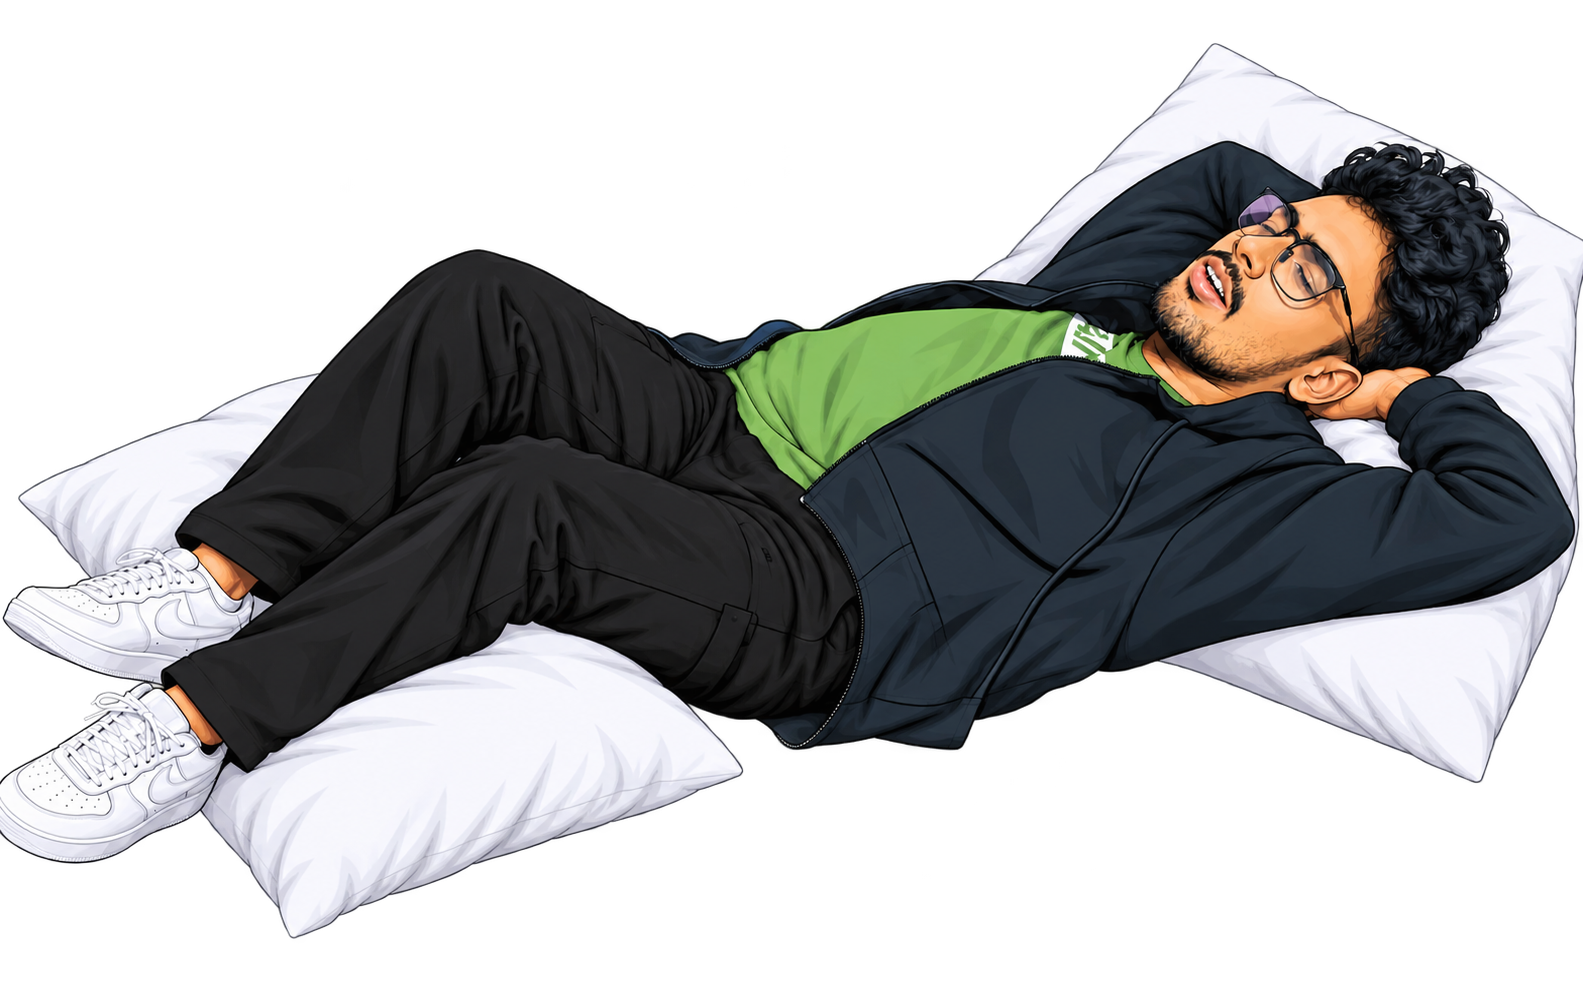
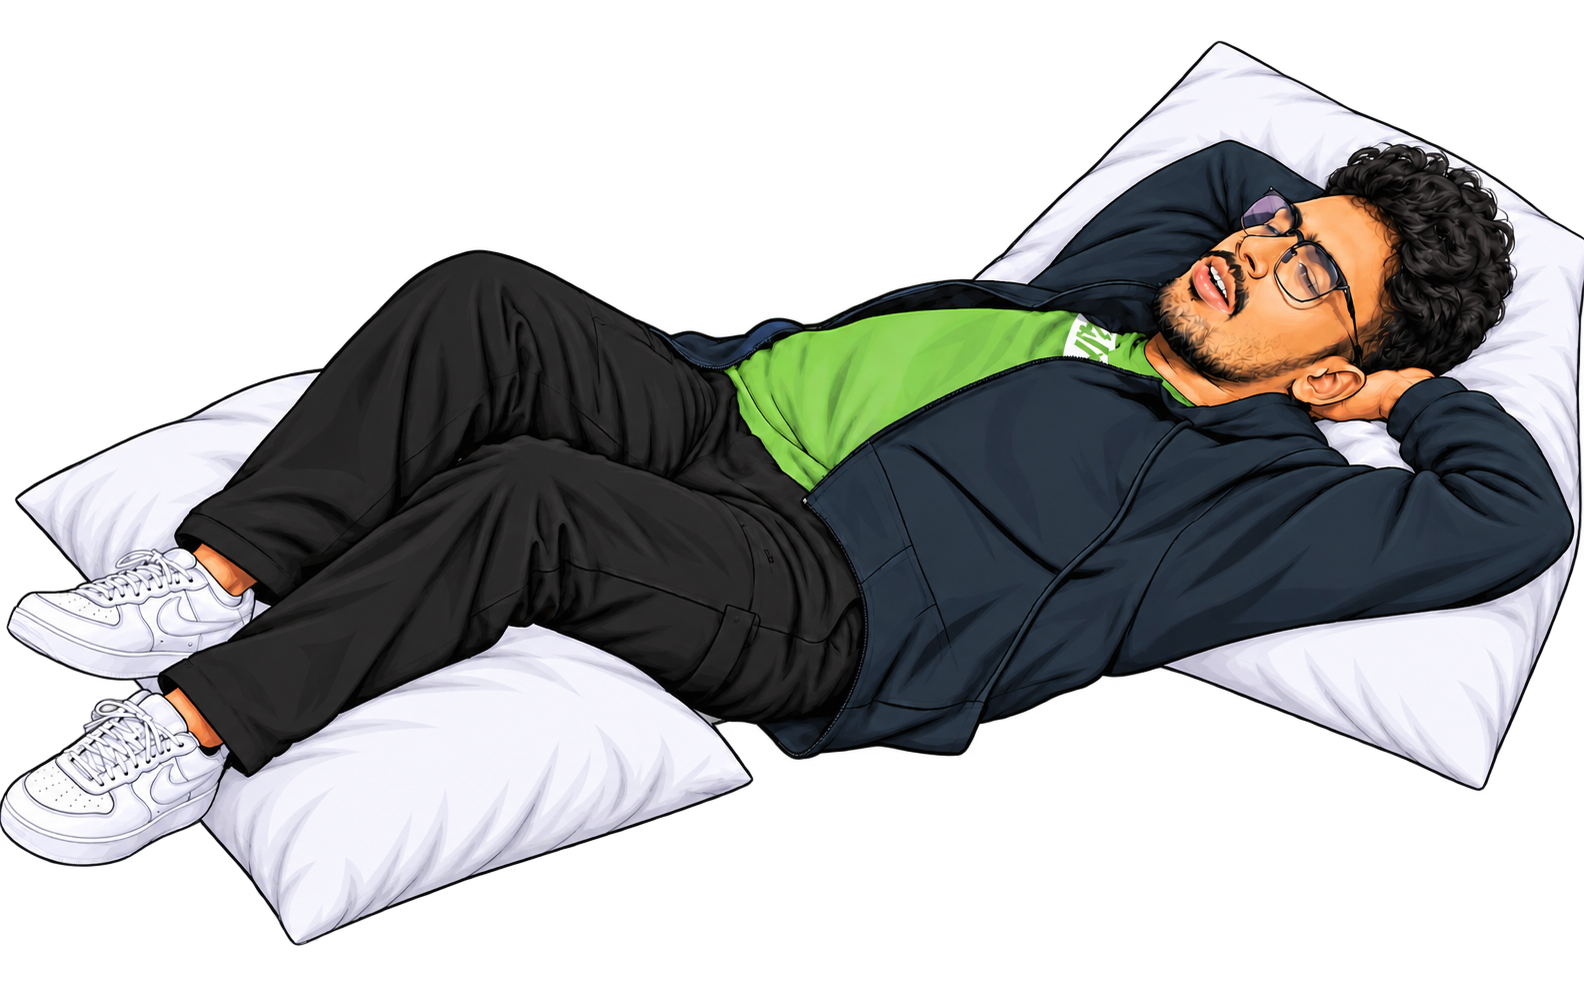
added the loading

diff --git a/index.html b/index.html
@@ -12,6 +12,18 @@
     <link href="https://fonts.googleapis.com/css2?family=Caveat:wght@400;600&display=swap" rel="stylesheet">
     <link href="https://fonts.googleapis.com/css2?family=Poppins:wght@400;500;600&display=swap" rel="stylesheet">
     <link href="https://fonts.googleapis.com/css2?family=Anton&display=swap" rel="stylesheet">
+    <link rel="preload" as="image" href="loading.gif">
+
+    <noscript>
+        <style>
+            #preloader {
+                display: none !important;
+            }
+            body.loading {
+                overflow: auto !important;
+            }
+        </style>
+    </noscript>
 
     <style>
         * {
@@ -659,8 +671,8 @@ html, body {
         }
 
         .social-gmail-btn img {
-            width: 30%;
-            max-width: 30%;
+            width: 10%;
+            max-width: 10%;
             height: auto;
             display: block;
             filter: grayscale(75%) drop-shadow(0 4px 10px rgba(0, 0, 0, 0.5));
@@ -1004,7 +1016,7 @@ html, body {
             }
         }
 
-        /* =========================================================
+        /* ======================THOMAS===================================
            FOOTER
            ========================================================= */
 
@@ -1115,10 +1127,72 @@ html, body {
                 gap: 10px;
             }
         }
+
+        /* Loading Screen (Preloader) */
+        body.loading {
+            overflow: hidden !important;
+        }
+
+        #preloader {
+            position: fixed;
+            top: 0;
+            left: 0;
+            width: 100vw;
+            height: 100vh;
+            background-color: #ffffff;
+            display: flex;
+            justify-content: center;
+            align-items: center;
+            z-index: 999999;
+            opacity: 1;
+            visibility: visible;
+            transition: opacity 0.5s ease, visibility 0.5s ease;
+        }
+
+        #preloader.fade-out {
+            opacity: 0;
+            visibility: hidden;
+            pointer-events: none;
+        }
+
+        #preloader img {
+            width: 150px;
+            height: 150px;
+            object-fit: contain;
+            display: block;
+            user-select: none;
+            -webkit-user-drag: none;
+        }
+
+        @media (prefers-reduced-motion: reduce) {
+            #preloader {
+                transition: none;
+            }
+        }
     </style>
 </head>
 
-<body>
+<body class="loading">
+
+    <!-- Loading Screen (Preloader) -->
+    <div id="preloader" role="status" aria-label="Loading page">
+        <img id="preloader-gif" src="loading.gif" alt="Loading..." width="150" height="150" fetchpriority="high">
+    </div>
+    <script>
+        window.__preloaderStart = performance.now();
+        (function() {
+            const gif = document.getElementById('preloader-gif');
+            if (gif) {
+                if (gif.complete) {
+                    window.__gifStartTime = performance.now();
+                } else {
+                    gif.addEventListener('load', function() {
+                        window.__gifStartTime = performance.now();
+                    }, { once: true });
+                }
+            }
+        })();
+    </script>
 
     <!-- ======= HERO SECTION ======= -->
     <div class="hero-section" id="home">
@@ -1228,7 +1302,7 @@ html, body {
             <img src="Text.png" alt="" class="social-text-img">
             <a href="https://mail.google.com/mail/?view=cm&fs=1&to=donsavio1one@gmail.com&su=Portfolio%20Contact"
                 target="_blank" class="social-gmail-btn">
-                <img src="socialmedia/gmail.png" alt="Gmail">
+                <img src="socialmedia/gmail.gif" alt="Gmail">
             </a>
         </div>
         <div class="social-inner">
@@ -1358,6 +1432,43 @@ html, body {
             }
 
             requestAnimationFrame(animate);
+        })();
+    </script>
+
+    <!-- Preloader Dismissal Script -->
+    <script>
+        (function () {
+            // Exact duration of one complete loop of loading.gif (109 frames = 3630ms)
+            const GIF_ROUND_DURATION = 3630;
+
+            function hidePreloader() {
+                const preloader = document.getElementById('preloader');
+                if (preloader && !preloader.classList.contains('fade-out')) {
+                    preloader.classList.add('fade-out');
+                    document.body.classList.remove('loading');
+                    setTimeout(() => {
+                        preloader.style.display = 'none';
+                    }, 500);
+                }
+            }
+
+            function scheduleHide() {
+                const startTime = window.__gifStartTime || window.__preloaderStart || performance.now();
+                const elapsed = performance.now() - startTime;
+                // Ensure at least 1 full round completes, and let any ongoing round finish cleanly
+                const rounds = Math.max(1, Math.round(elapsed / GIF_ROUND_DURATION));
+                const targetDuration = rounds * GIF_ROUND_DURATION;
+                const remaining = Math.max(0, targetDuration - elapsed);
+                setTimeout(hidePreloader, remaining);
+            }
+
+            if (document.readyState === 'complete') {
+                scheduleHide();
+            } else {
+                window.addEventListener('load', scheduleHide);
+                // Safety fallback in case external assets stall
+                setTimeout(hidePreloader, 10000);
+            }
         })();
     </script>
 </body>
